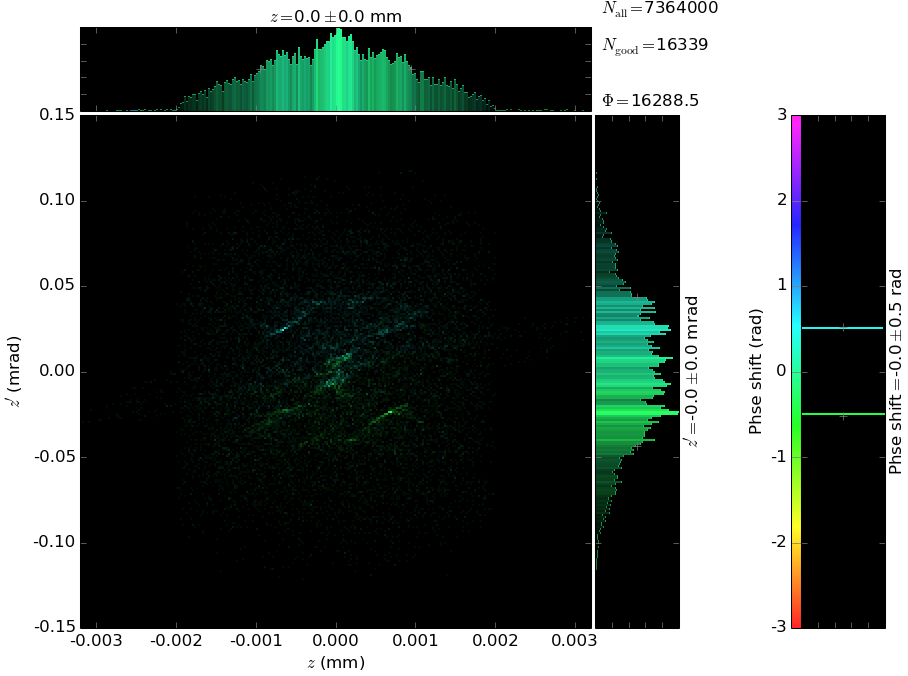
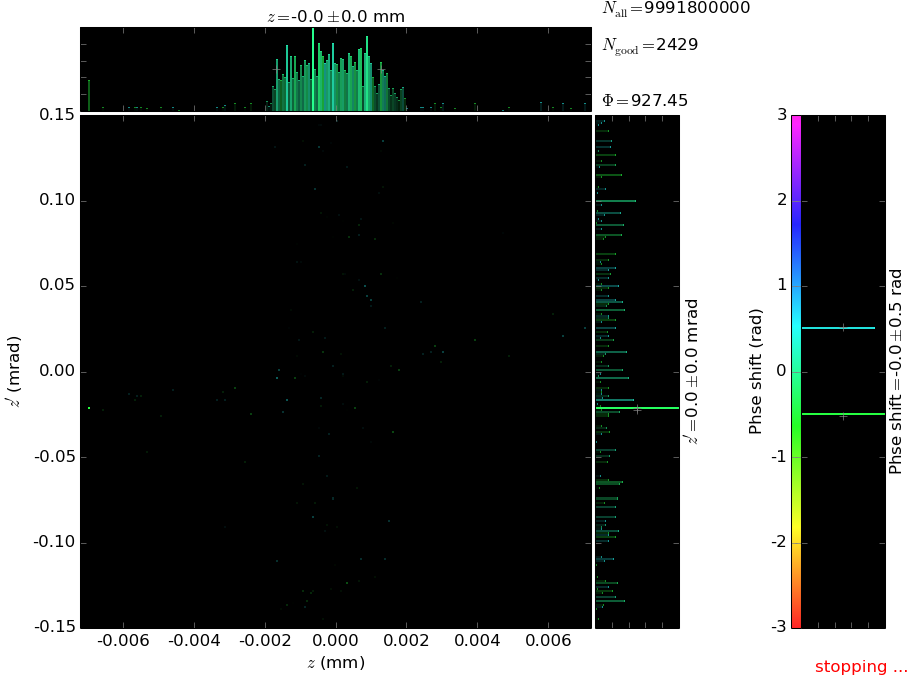
Some progress in pushing light trough very thin capillary:
- large number of reflections slows calculations a lot

diff --git a/simplfiedMonoCapillary.py b/simplfiedMonoCapillary.py
@@ -29,9 +29,9 @@ import scipy.io
     
 # ray traycing settings    
 mGlass = rm.Material(('Si', 'O'), quantities=(1, 2), rho=2.2)
-repeats = 2e4    # number of ray traycing iterations
+repeats = 1e6    # number of ray traycing iterations
 E0 = 9000.          # energy in electronoVolts
-nRefl = 80          # number of reflections
+nRefl = 250          # number of reflections
 
 # capillary shape parameters
 rSample = 30.0              # starting position of the lens
@@ -49,13 +49,23 @@ a_      = -L_/2.0/np.arcsinh(-y_in/rS)
 print a_, y_in/rS
 
 # image acquisition
-screen1_pos = rSample + 100     # not really used
+screen1_pos = rSample     # not really used
 screen2_pos = f + 0             # first image position outside capillary
 max_plots = 0                   # for imaging different position at once| 0=off
 
 # Pickle saving: None for no saving
 persistentName=None #'phase_space__energy.pickle'
 
+# Surce parameters
+distx       = 'flat'
+dx          = 0.1
+distxprime  = 'normal'
+dxprime     = 0.1
+# z-direction
+distz       = 'flat'
+dz          = 0.1
+distzprime  = 'normal'
+dzprime     = 0.1
 
 
 class StraightCapillary(roe.OE):
@@ -118,12 +128,17 @@ class StraightCapillary(roe.OE):
         z = r * np.cos(phi)
         return x, y, z
         
-def build_beamline(nrays=1000):
+def build_beamline(nrays=1e5):
     beamLine = raycing.BeamLine(height=0)
+#    rs.GeometricSource(
+#        beamLine, 'GeometricSource', (0,0,0), nrays=nrays,
+#        dx=0., dz=0., distxprime='annulus',
+#        distE='lines', energies=(E0,), polarization='horizontal')    
     rs.GeometricSource(
-        beamLine, 'GeometricSource', (0,0,0), nrays=nrays,
-        dx=0., dz=0., distxprime='annulus',
-        distE='lines', energies=(E0,), polarization='horizontal')                 
+        beamLine,'GeometricSource',(0,0,0), nrays=nrays,
+        distx=distx, dx=dx, distxprime=distxprime, dxprime=dxprime,
+        distz=distz, dz=dz, distzprime=distzprime, dzprime=dzprime,
+        distE='lines', energies=(E0,), polarization='horizontal')         
     # yo    
     beamLine.fsm1 = rsc.Screen(beamLine, 'DiamondFSM1', (0,screen1_pos,0))
     
@@ -142,10 +157,10 @@ def build_beamline(nrays=1000):
     
     if beamLine.xzMax < capillary.b0:
         beamLine.xzMax = capillary.b0
-    beamLine.xzMax += 2*r0
+    beamLine.xzMax = 0.0
     
-    n=8   # one layer..
-    beamLine.sources[0].dxprime = 0, np.arcsin((2*n+1) * (r0+wall) / rSample)
+#    n=8   # one layer..
+#    beamLine.sources[0].dxprime = 0, np.arcsin((2*n+1) * (r0+wall) / rSample)
     beamLine.fsm2 = rsc.Screen(beamLine,'DiamondFSM2', (0,screen2_pos,0))
     beamLine.myFsms = []
     for it in range(0,max_plots):
@@ -190,7 +205,7 @@ def main():
     beamLine = build_beamline()
     plots = []
 
-    limit_r = 1.6 * r0      # visible readius
+    limit_r = 3.6 * r0      # visible readius
     xLimits = [y_in - limit_r, y_in + limit_r]
     xpLimits = [-0.15, 0.15]
 #    zLimits = xLimits
@@ -221,7 +236,7 @@ def main():
         xaxis=xrtp.XYCAxis(r"$x$", 'mm', data=raycing.get_x, bins=256, ppb=2, limits=xLimits),
         yaxis=xrtp.XYCAxis(r"$z$", 'mm', data=raycing.get_z, bins=256, ppb=2, limits=zLimits),
 #        caxis='category', 
-        caxis=xrtp.XYCAxis("Reflections", 'nr of',data=raycing.get_reflection_number, bins=256, ppb=2, limits=[0,nRefl]),
+        caxis=xrtp.XYCAxis("Reflections", 'num of',data=raycing.get_reflection_number, bins=256, ppb=2, limits=[0, nRefl]),
         beamState='beamFSM2', title='Real Space', aspect='auto',
         persistentName=persistentName)
     # setting persistentName saves data into a python pickle, and might be
